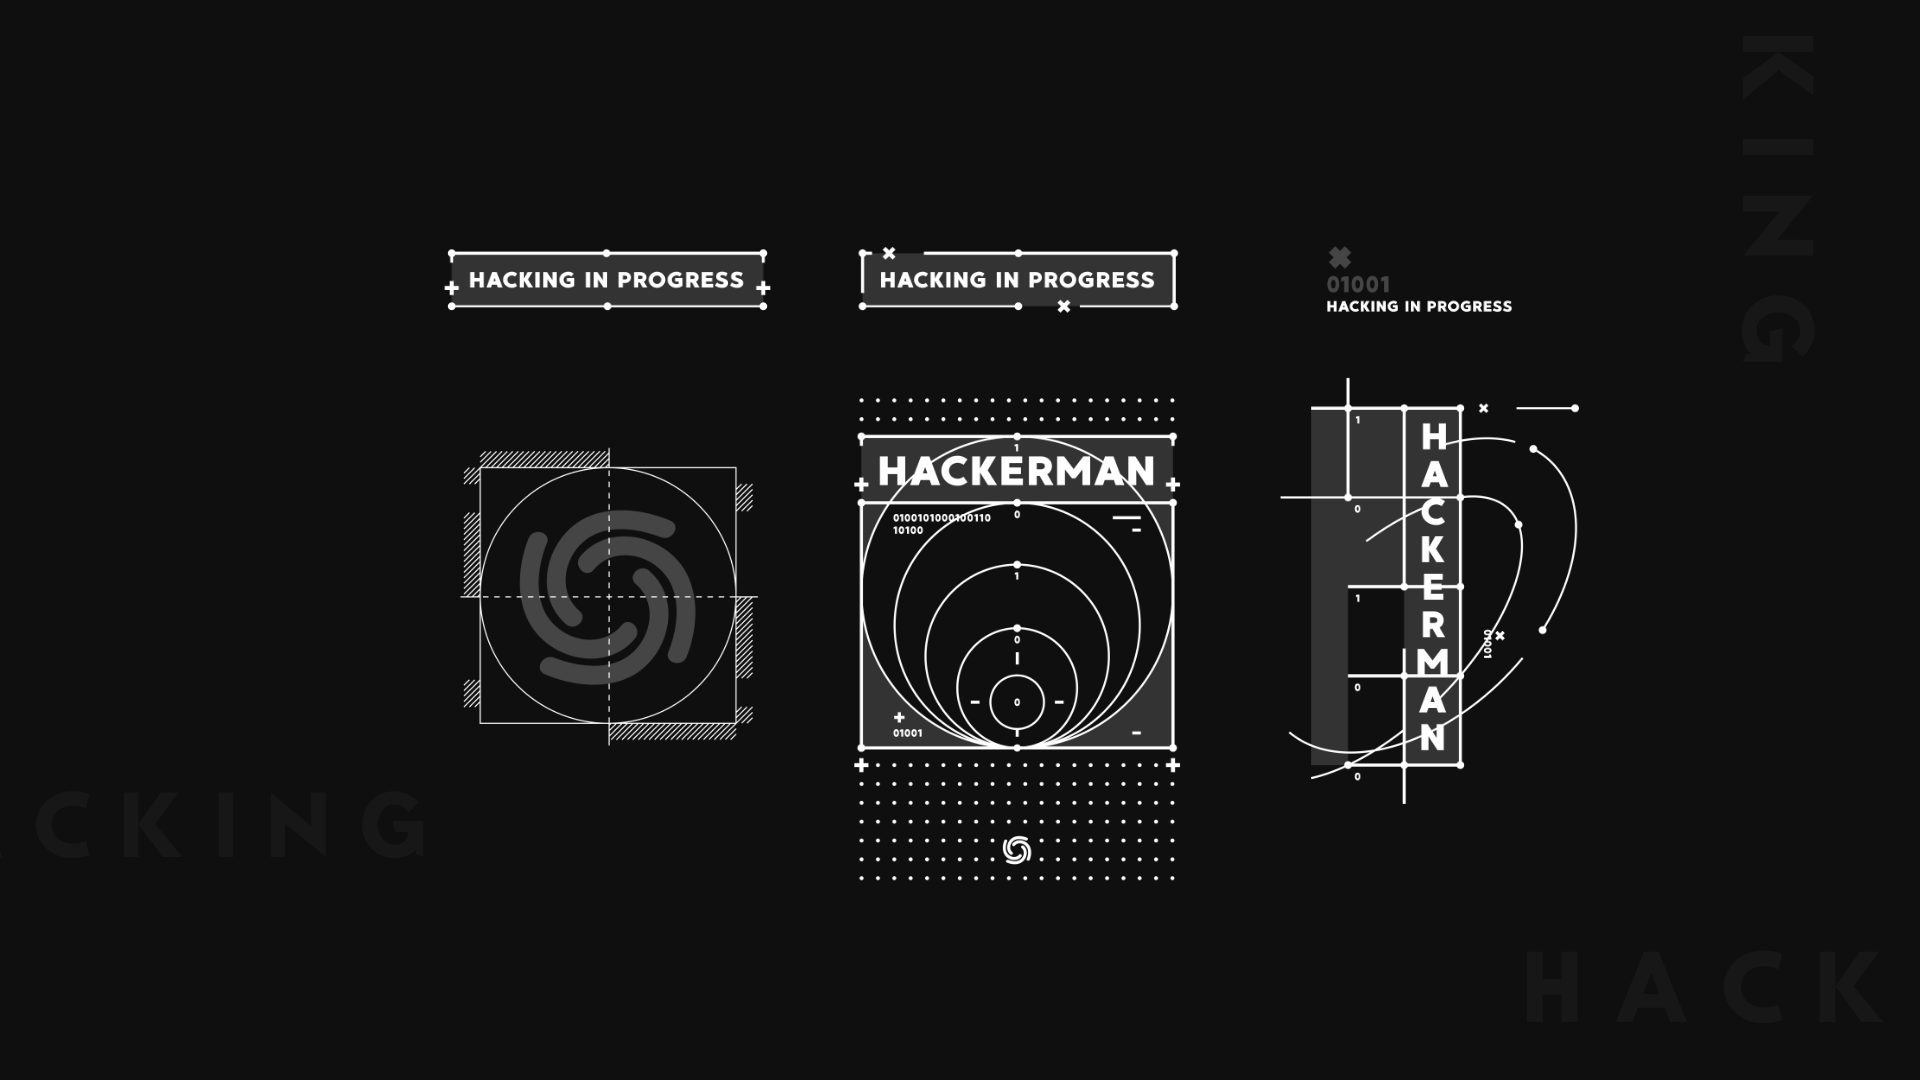
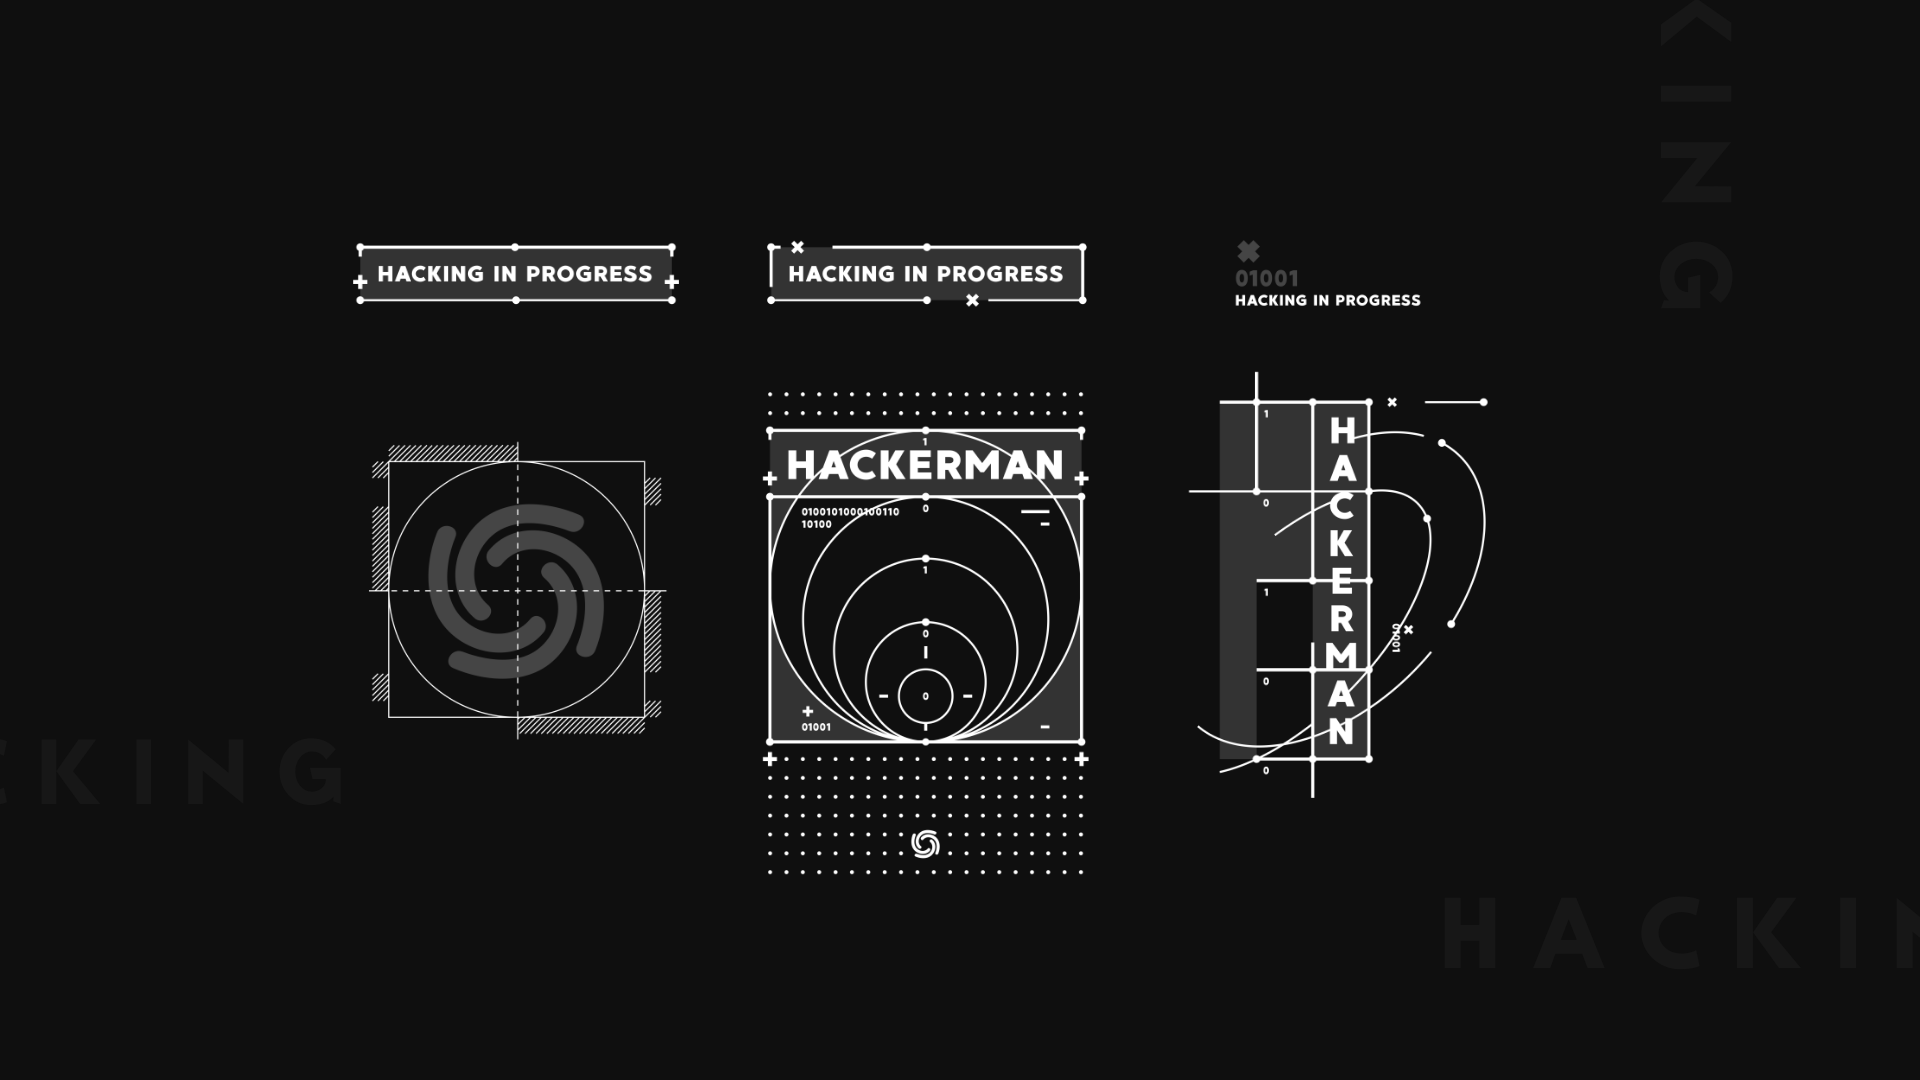
centralizandos as imagens de fundo

Changed region(s): [[0.1875, 0.3667, 0.7812, 0.825], [0.1875, 0.2139, 0.7812, 0.3056]]

diff --git a/assets/css/style.css b/assets/css/style.css
@@ -2432,7 +2432,7 @@ left: 100px;
 #mouse-scroll {
   position: absolute;
      margin: auto;
-    left: 53%;
+    left: 51.3%;
     -webkit-transform: translateX(-50%);
     z-index: 9999;
     bottom: 7px;

diff --git a/content/english/banner.md b/content/english/banner.md
@@ -1,5 +1,5 @@
 ---
-bg_image: images/backgrounds/background.jpg
+bg_image: images/backgrounds/background.png
 button:
   enable: true
   label: CONTATO
